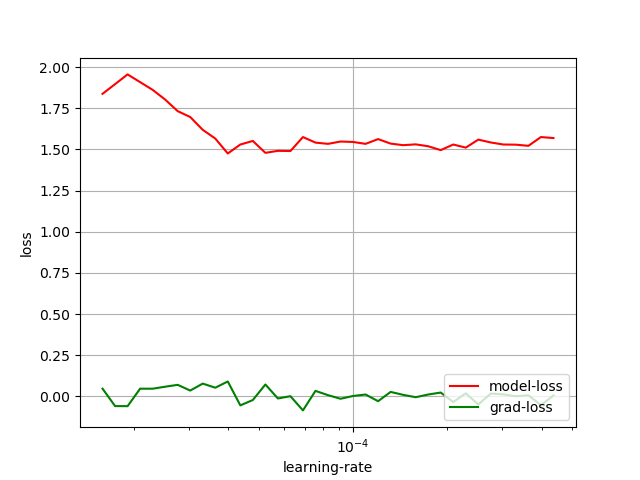
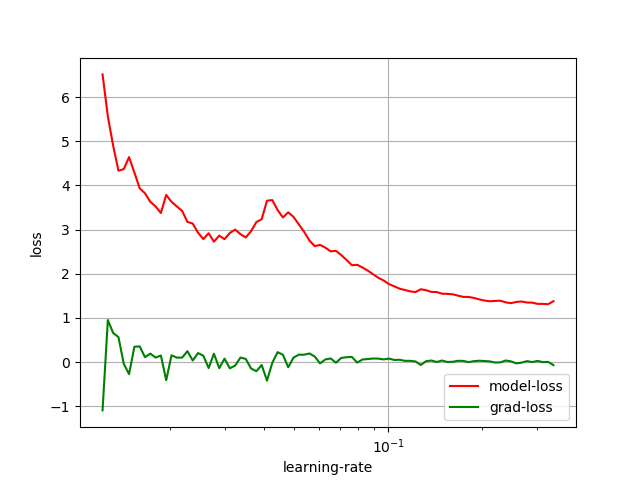
switching to tf2.3 and network efficient net

diff --git a/models/network.py b/models/network.py
@@ -5,12 +5,18 @@ from config.img_classification_config import ConfigObj
 
 def create_network():
     input_shape = (ConfigObj.img_dim, ConfigObj.img_dim, ConfigObj.img_channels)
-    resnet50_feature_extractor = tf.keras.applications.resnet50.ResNet50(
+    if ConfigObj.Network_Architecture == 'ResNet50':
+        feature_extractor = tf.keras.applications.resnet50.ResNet50(
         include_top=False, weights='imagenet', input_shape=input_shape)
 
+    elif ConfigObj.Network_Architecture == 'EfficientnetB3':
+        feature_extractor = tf.keras.applications.efficientnet.EfficientNetB3(
+            include_top=False, weights='imagenet', input_shape=input_shape)
+
     num_classes = ConfigObj.Num_Classes
-    features = resnet50_feature_extractor.output
+    features = feature_extractor.output
     avg_pool = GlobalAveragePooling2D(data_format='channels_last')(features)
     predictions = Dense(num_classes, activation='softmax')(avg_pool)
-    resnet50_freeze = Model(resnet50_feature_extractor.input, predictions)
-    return resnet50_freeze
+
+    my_newtork = Model(feature_extractor.input, predictions)
+    return my_newtork

diff --git a/config/img_classification_config.py b/config/img_classification_config.py
@@ -24,12 +24,13 @@ class ImageClassificationConfig:
     No_System_Threads = 8
     Device = "cuda"
     Number_GPU = 1
+    Network_Architecture = 'EfficientnetB3'
     '''
     ## Hyper Parameters: These are the standard tuning params 
     for an experiment.
     '''
     learning_rate = 0.00008
-    batch_size_per_gpu = 32
+    batch_size_per_gpu = 1
     batch_size = batch_size_per_gpu * Number_GPU
     optimizer = 'adam'
     epochs = 1

diff --git a/src_optimal_lr_finder/LRFinder.py b/src_optimal_lr_finder/LRFinder.py
@@ -1,13 +1,12 @@
-import matplotlib.pyplot as plt
 import os
+import sys
 import numpy as np
+import math
 import tensorflow as tf
 from tensorflow.keras.callbacks import Callback
-import math
 import logging
-import math
+import matplotlib.pyplot as plt
 from pathlib import Path
-import sys
 
 from config.img_classification_config import ConfigObj
 
